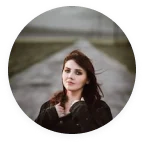
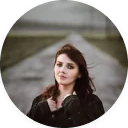
fixes
Видалив зайві класи і діви, додав ID до секції

Кадрував зображення, бо інакше їх ніяк не підігнати під 68px, як мінімум я не знаю як це зробити.

Замінив display: none, перемістив марджин авто та додав інші дрібні виправлення.

diff --git a/src/partials/testimonials.html b/src/partials/testimonials.html
@@ -1,0 +1,77 @@
+<section class="testimonials-section" id="testimonials">
+  <div class="testimonials-wrapper container">
+    <h2 class="testimonials-title">Testimonials</h2>
+    <ul class="testimonials-list">
+      <li class="testimonials-list-item">
+        <picture>
+          <source
+            srcset="./images/review-1.webp 1x, ./images/review-1@2x.webp 2x"
+            type="image/webp"
+          />
+          <img
+            class="testimonials-picture-img"
+            src="./images/review-1.webp"
+            alt="Reviewer photo"
+            width="64"
+            height="64"
+            loading="lazy"
+          />
+        </picture>
+        <h3 class="testimonials-item-title">Maria Tkachuk</h3>
+        <p class="testimonials-item-text">
+          I was pleasantly surprised by the variety of embroidery offered by
+          Vyshyvanka Vibes. They have models for every taste - from classic to
+          modern. I bought an embroidered dress to celebrate a special occasion
+          and received impeccable service and refinement in every detail.
+        </p>
+      </li>
+      <li class="testimonials-list-item testimonials-list-item-1-hidden">
+        <picture>
+          <source
+            srcset="./images/review-2.webp 1x, ./images/review-2@2x.webp 2x"
+            type="image/webp"
+          />
+          <img
+            class="testimonials-picture-img"
+            src="./images/review-2.webp"
+            alt="Reviewer photo"
+            width="64"
+            height="64"
+            loading="lazy"
+          />
+        </picture>
+        <h3 class="testimonials-item-title">Sergey Rybachok</h3>
+        <p class="testimonials-item-text">
+          Vyshyvanka Vibes exceeds all my expectations! Their vyshyvanka are
+          simply masterpieces! I fell in love with the quality of the materials
+          and the skill of the artisans behind each product. This is my favorite
+          embroidery shop where I always find something special and unique.
+        </p>
+      </li>
+      <li class="testimonials-list-item testimonials-list-item-2-hidden">
+        <picture>
+          <source
+            srcset="./images/review-3.webp 1x, ./images/review-3@2x.webp 2x"
+            type="image/webp"
+          />
+          <img
+            class="testimonials-picture-img"
+            src="./images/review-3.webp"
+            alt="Reviewer photo"
+            width="64"
+            height="64"
+            loading="lazy"
+          />
+        </picture>
+        <h3 class="testimonials-item-title">Natalia Chatuk</h3>
+        <p class="testimonials-item-text">
+          Vyshyvanka Vibes is a real find for everyone who appreciates Ukrainian
+          culture. Their embroidery reflects the spirit and traditions of our
+          people. I not only buy embroidered shirts for myself, but also give
+          them to my friends abroad as a symbol of our beauty and national
+          pride.
+        </p>
+      </li>
+    </ul>
+  </div>
+</section>

diff --git a/src/css/testimonials.css b/src/css/testimonials.css
@@ -1,0 +1,148 @@
+.container {
+    padding-top: 80px;
+    padding-bottom: 80px;
+}
+
+.testimonials-title {
+    font-size: 32px;
+    font-weight: 500;
+    line-height: 1.38;
+    letter-spacing: -0.03em;
+    margin-bottom: 64px;
+}
+
+.testimonials-list-item {
+    position: relative;
+    border-radius: 4px;
+    border: 1px solid rgba(252, 249, 249, 0.10);
+    padding: 54px 22px 18px 22px;
+}
+
+.testimonials-item-title {
+    text-align: center;
+    font-size: 20px;
+    line-height: 1.5;
+    margin-bottom: 8px;
+}
+
+.testimonials-item-text {
+    text-align: center;
+    font-size: 14px;
+    line-height: normal;
+    color: rgba(252, 249, 249, 0.40);
+}
+
+
+.testimonials-picture-img {
+    position: absolute;
+    top: 0;
+    left: 50%;
+    transform: translate(-50%, -50%);
+
+    border-radius: 50%;
+    background: lightgray 50%;
+    box-shadow: 0px 1px 4px 0px rgba(16, 24, 40, 0.06);
+    overflow: hidden;
+
+}
+
+
+/* MOBILE HIDDEN REVIEW  */
+@media screen and (max-width:767.9px) {
+
+    .testimonials-list-item-1-hidden,
+    .testimonials-list-item-2-hidden {
+        position: absolute;
+        pointer-events: none;
+        transform: translate(-9999px, 0);
+    }
+
+    .container {
+        min-width: 320px;
+    }
+
+}
+
+@media screen and (min-width: 375px) {
+    .container {
+        width: 335px;
+        margin: 0 auto;
+    }
+}
+
+
+/* TABLET */
+
+@media screen and (min-width: 768px) {
+
+    /* TABLET HIDDEN REVIEW  */
+    @media screen and (max-width: 1279.9px) {
+        .testimonials-list-item-2-hidden {
+            position: absolute;
+            transform: translate(-9999px, 0);
+        }
+    }
+
+    .container {
+        width: 704px;
+        padding-left: 32px;
+        padding-right: 32px;
+
+        /* потрібно дописати медіа запити в main на 
+        container > padding: left+right  під кожен пристрій */
+    }
+
+    .testimonials-list-item {
+        width: 336px;
+        padding: 54px 18px 18px;
+    }
+
+    .testimonials-title {
+        font-size: 44px;
+        line-height: 1.45;
+    }
+
+    .testimonials-list {
+        display: flex;
+        gap: 32px;
+        justify-content: center;
+    }
+
+}
+
+
+/* DESKTOP 1280 */
+
+@media screen and (min-width: 1280px) {
+    .container {
+        width: 1080px;
+        padding-left: 100px;
+        padding-right: 100px;
+
+        /* потрібно дописати медіа запити в main на 
+        container > padding: left+right  під кожен пристрій */
+    }
+
+    .testimonials-item-text {
+        font-size: 16px;
+    }
+
+    .testimonials-list {
+        gap: 26px;
+    }
+
+    .testimonials-list-item {
+        width: 343px;
+    }
+}
+
+/* DESKTOP 1440 */
+@media screen and (min-width: 1440px) {
+    .container {
+        width: 1240px;
+    }
+
+    .testimonials-list-item {
+        width: 396px;
+    }
+}
